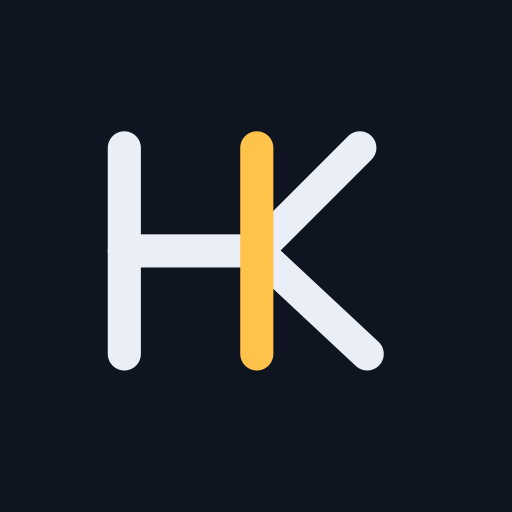
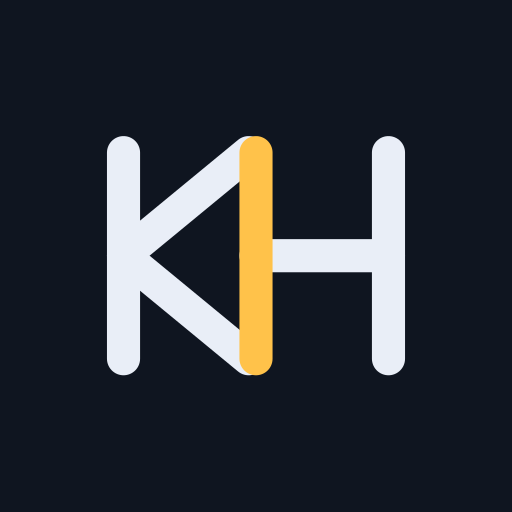
Monogram KH oldu
K'nin kolları sağa açılıp H'nin sol dikeyine değiyor, ortak dikey amber
kalıyor. Harfler artık ismin okunuş sırasında: Kıvanç Hoca. Favicon,
dört ikon, paylaşım görseli ve uygulama içindeki işaret güncellendi.

diff --git a/src/bilesenler/Marka.jsx b/src/bilesenler/Marka.jsx
@@ -1,9 +1,9 @@
 /**
  * Marka işareti — HK monogramı.
  *
- * H'nin sağ dikeyi aynı zamanda K'nin gövdesidir; K'nin kolları doğal
- * yönde sağa açılır, hiçbir harf ters çevrilmez. O ortak dikey amber
- * çizilir: markanın tek imza hattı. Turuncu başka hiçbir yere girmez.
+ * K'nin kolları sağa açılıp H'nin sol dikeyine değer; o ortak dikey amber
+ * çizilir, markanın tek imza hattı budur. Harfler ismin okunuş sırasında:
+ * Kıvanç Hoca. Turuncu başka hiçbir yere girmez.
  *
  * Tek yerde durur ki üst şerit, giriş ekranı ve favicon aynı çizimi
  * paylaşsın; birinde yapılan düzeltme hepsinde geçerli olsun.
@@ -17,9 +17,9 @@ export function MarkaIsareti({ yukseklik = 20, sinif = '' }) {
   return (
     <svg
       className={sinif ? `marka-isaret ${sinif}` : 'marka-isaret'}
-      viewBox="0 0 96 72"
+      viewBox="0 0 100 72"
       height={yukseklik}
-      width={(yukseklik * 96) / 72}
+      width={(yukseklik * 100) / 72}
       fill="none"
       aria-hidden="true"
       focusable="false"
@@ -31,9 +31,10 @@ export function MarkaIsareti({ yukseklik = 20, sinif = '' }) {
         strokeLinejoin="round"
       >
         <path d="M14 8V64" />
-        <path d="M14 36H50" />
-        <path d="M50 36L78 8" />
-        <path d="M50 36L80 64" />
+        <path d="M14 36L48 8" />
+        <path d="M14 36L48 64" />
+        <path d="M50 36H86" />
+        <path d="M86 8V64" />
       </g>
       <path
         className="marka-akt"
